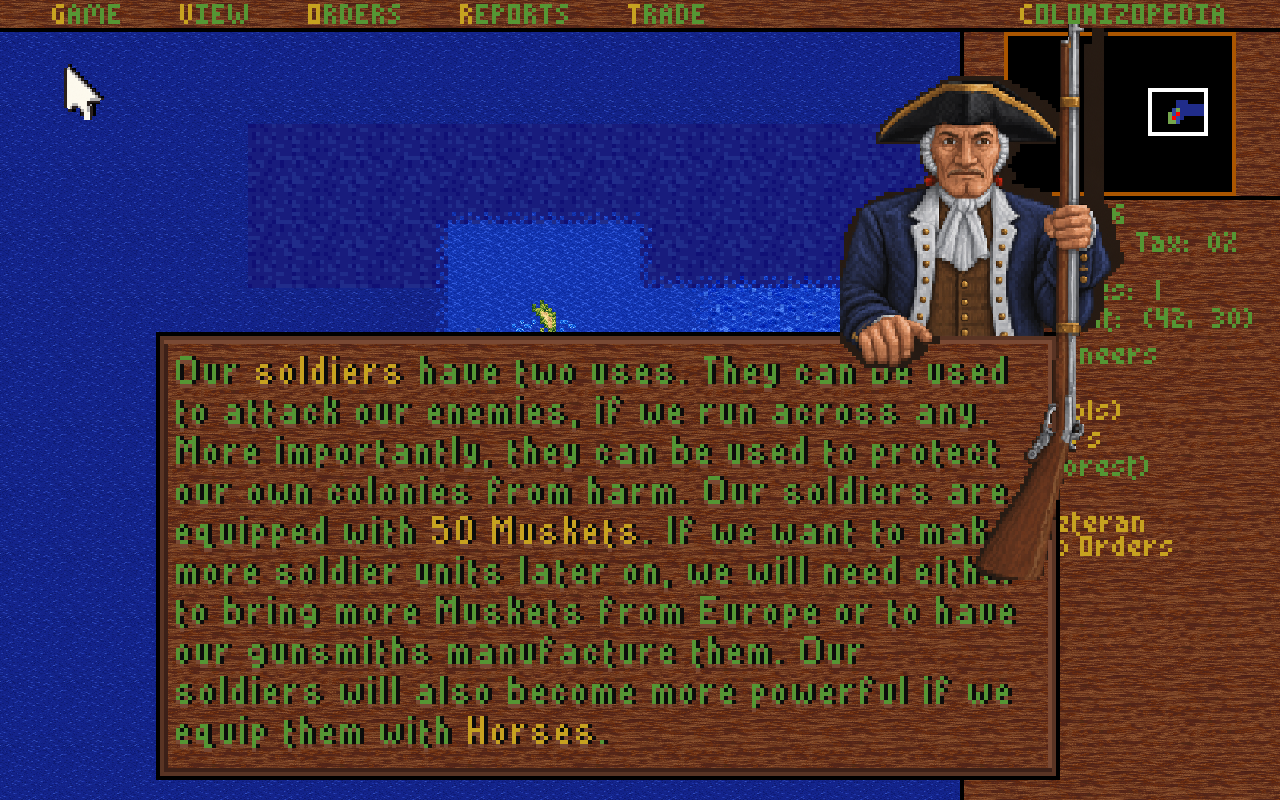
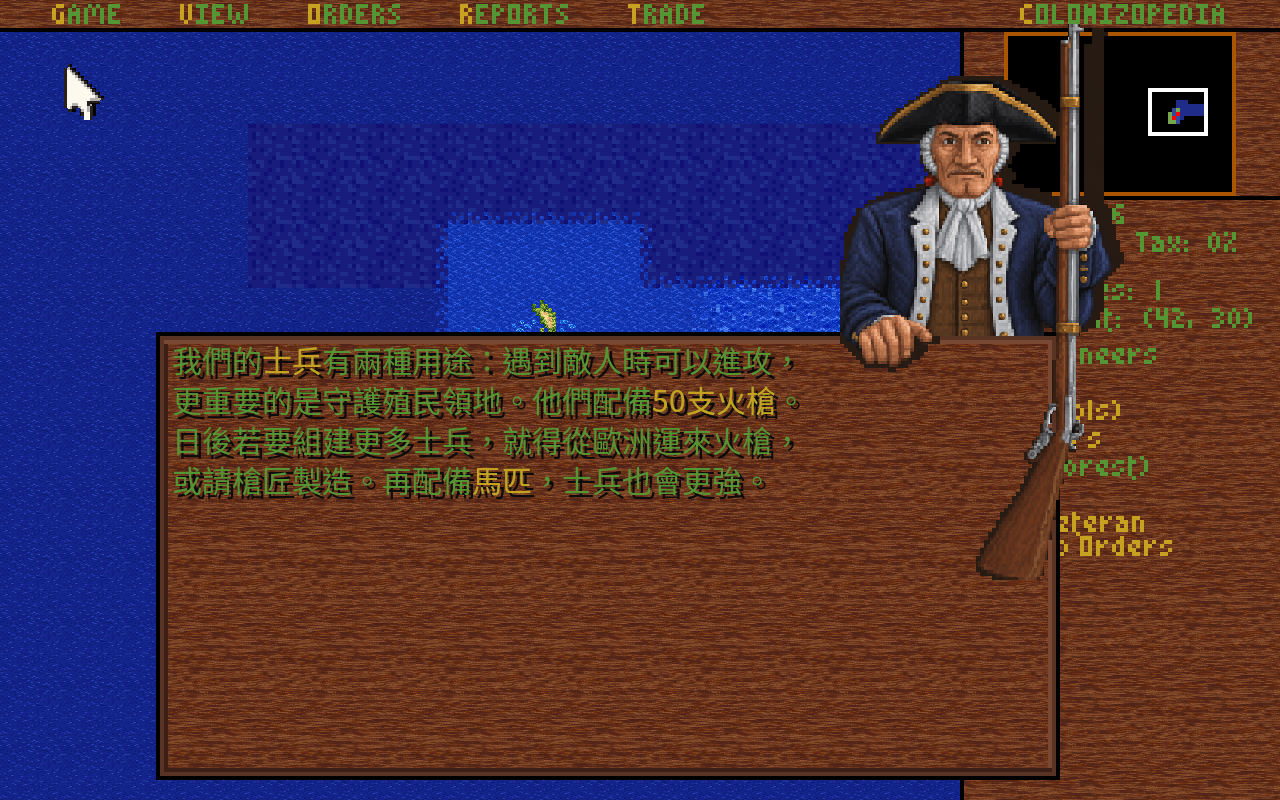
docs: verify four-language soldier tutorial and refresh its screenshot

Changed region(s): [[0.125, 0.4375, 0.8125, 0.9375]]

diff --git a/CONTEXT.md b/CONTEXT.md
@@ -7,10 +7,10 @@
 | 項目 | 目前狀態與證據 |
 |---|---|
 | 本機歷史紀錄 | 舊JSON／JSONL／來源遮罩與Linux驗證程式已無損封存為原路徑加`.gz`及`.gz.meta.json`，清冊中的SHA-256對應原始內容。重用舊驗證目錄前，在Docker內以非root執行[還原工具](tools/evidence_storage.py)的`restore <原始路徑或目錄>`；完整命令與清理收據見[工作紀錄](WORKLOG.md)。文件、發行收據及封裝字型直接依賴的95個檔案維持原路徑。原版、正式HD原圖、存檔、正式交付與目前有效輸出保留。R92另合併896個完全相同的封閉輸出、無損封存12個舊檔，節省1374875648 bytes；R92清理後實占35029135360 bytes，約32.62GiB；R95另無損封存8個舊JSON／JSONL與原型驗證程式，節省579137536 bytes，原始雜湊往返驗證通過；R96另將1105個封閉觀測輸出合併並無損封存8個舊檔，共節省463585280 bytes；當次獨立一般檔實占38632386560 bytes，約35.98GiB，後續開發空間依各輪收尾收據。 |
-| 目前進行 | 現行382張生成原PNG／383檔、941個來源連結，包含既有317個限定CONFORMED及624個DISPLAY-PASS。片尾煙火66幀與勝利煙火46幀正式接線，共178張來源測試畫面顯示。HD事件標題改用金色，三種事件五語15張及原文回退3張畫面通過；字型、字級與位置保持，不增加翻譯覆蓋信用。正式6317097c…通過建置、go vet、完整HD載入、本批112來源fixture顯示及383檔封裝指紋。README維持32張實拍，三張事件已更新為當前金色標題的實際視窗。字形／文字、單色遮罩與其他執行期圖像接續；全量HD、完整五語、影片與新版交付仍未完成。 |
+| 目前進行 | 現行382張生成原PNG／383檔、941個HD來源連結，包含既有317個限定CONFORMED及624個DISPLAY-PASS。R118煙火112幀與金色事件標題、R119三張金色事件實拍保持。R120士兵教學正文四語Noto限定CONFORMED，16張四語正文與2張英文事件實拍，43張完整X11、36個來源反例及當次正常輸入的原版控制組狀態相同。正式aaffdd17…通過建置與go vet；圖像、譯稿與328個語言資源保持。README仍32張，士兵正文改為當次繁中HD實拍。字形／文字、單色遮罩與其他執行期圖像接續；全量HD、完整五語、影片及新版交付仍未完成。 |
 | HD驗收授權 | 2026-10-20使用者明確授權將「正式接線＋測試畫面出現」寫入專案規則。HD單項記為DISPLAY-PASS，沿既有來源與繪圖契約，不追加原版內部調查或逐像素對拍；測試畫面方式如實記錄，全量未覆蓋項及其他功能契約保持。入口[AGENTS.md](AGENTS.md#hd-顯示驗收)及[目標186](docs/goals/186-display-settings-and-gameplay-video.md#全量覆蓋與完成判準)。 |
 | HD事件標題配色 | 2026-10-20使用者指定金色。HD模式字面RGB243／205／99、高光255／240／175、陰影53／28／8；四語Noto及英文原字形與欄位位置保持。三種既有事件的五語15張與原文回退3張來源測試畫面通過，不增加譯文或正常玩家路徑信用。入口[規格069](docs/spec/069-hd-menu-background-and-textures.md)。 |
-| 大型人物HD候選 | MSS0／1／3／4保留原有限定CONFORMED；MSS2／5於R101完成正式接線與來源測試畫面顯示，記為DISPLAY-PASS。士兵正文英文回退限制保持，未新增翻譯信用。入口[規格069](docs/spec/069-hd-menu-background-and-textures.md)。 |
+| 大型人物HD候選 | MSS0／1／3／4保留原有限定CONFORMED；MSS2／5於R101完成正式接線與來源測試畫面顯示，記為DISPLAY-PASS。士兵教學正文於R120完成四語Noto限定驗收，人物圖像信用保持；來源與排版入口[規格060 R120](docs/spec/060-language-bundle-swap.md#2026-10-20-r120-士兵教學正文-ready)。入口[規格069](docs/spec/069-hd-menu-background-and-textures.md)。 |
 | 世界城鎮、聚落與紅旗HD | R96三個縮放入口小圖像限定CONFORMED。305張原PNG／306檔及305個已驗來源連結；45張正常GUI／40個原版點，五語兩模式及四語逐圖游標進出通過。獨立新元件alpha為3：130770、11：74240、118：11559，完整X11為46080000點。56筆當次輸入三側至102200000步，含play=true，CPU／完整RAM／IDX／DAC／WAV／存檔與實拍相同。182具名通過項由178個未改守門／交易成功項加當次4個全載入項組成；完整84來源／83小圖像、14新載入錯件、306檔封裝16拒絕與索引12拒絕通過。舊302張原圖、清冊及來源連結保持。README更新世界地圖，仍為24張原樣實拍。其他40個ICONS、六個PIK、建築47、其他圖像／動畫、完整五語、全量HD、影片及新版交付未完成。 審查d6919b3f43c4f71e847d928bfdcc7f17105eb25740e0a9ac9ad1121116991ed6；索引e52daf53508ce60a41b9a6a3090f951d3ee333c38c8fb16ec94c212c487e7164。 |
 | 森林與魚群Main HD | [規格067 R95](docs/spec/067-hd-world-terrain-batch.md#r95既有六個地形main表面conformed)R95六個既有地形Main表面限定CONFORMED。54張GUI／44原版點、完整RGBA54272000點、X11 55296000點、560個Noto欄位及289751個Main起點alpha通過。六來源各五語／兩模式，繁中逐一游標進出與其他三語代表；正常離頁歸零。68筆當次輸入三側至117800000步，含play=true，完整狀態／WAV／存檔與實拍相同。850具名通過項、54幀載入正例與新增7錯件，未變53幀163錯件明列繼承；303檔封裝25拒絕與索引12拒絕通過。 現行302張原PNG／303檔、302個已驗來源連結，README共24張原樣實拍。接續其餘43個ICONS候選、建築47、六個PIK、其他表面及動畫；完整五語、全量HD、影片與新版交付未完成。 |
 | 山地、丘陵與資源小圖HD | [規格067 R94](docs/spec/067-hd-world-terrain-batch.md#r94其餘三十三個main前景conformed)33個Main前景限定CONFORMED。96張正式GUI／86個獨立原版點，95張完整RGBA共97280000點、96張X11共98304000點、816個Noto欄位、720534個新前景alpha通過。四種代表地形各五語／兩模式及四語代表游標往返；正常離頁歸零。163筆當次輸入三側至278600000步，含play=true，CPU／完整RAM／IDX／DAC／WAV／存檔與實拍相同；原版288檔保持。73Go／56來源綁定、682具名測試零失敗零skip、53幀載入163錯件、303檔封裝106拒絕及索引12拒絕通過。舊269張、清冊與連結保持；未新增Stage／發布回退信用，最後世界HD僅驗繼承材質與X11。審查4475d4ad9685764bc0bb6a10029be909d6c7485f4b4782a520db51e87f9076d8；索引602c54d4c1083da56f88510ab8ba3f4dbcf25ba07b125ad8eda674c90f20a3f6。README共23張原樣實拍。 |

diff --git a/docs/spec/060-language-bundle-swap.md b/docs/spec/060-language-bundle-swap.md
@@ -1068,3 +1068,11 @@ COLONY00.SAV由原版正常寫入，指紋仍為
 本機來源與量測入口位於既有hd-opening-animation-sources-r84工作根的r120-soldier-evidence-r1/gui.soldier-source.json，SHA-256為f918305b821fac28a5679fc739490cfeba674c1313e4c3ba9c1634638c9e33cf。正常輸入與基準狀態見r120-soldier-baseline-r1及規格069 R98的GUI5收據；原版資料維持本機。
 
 R120來源核對補充：印字完成後，正文安全區有427個人物後畫點，其中54個原屬文字墨跡。427點均有完整MSS1來源及原生值證明；native_occluded_pixels只計54個文字點。來源檢查收據為r120-source-overlap-check-r1.json，仍不接受來源以外的改動。
+
+### R120士兵教學正文限定CONFORMED
+
+四語完整正文均以各地區Noto 30px顯示於左側欄，原版與HD兩模式及四語人物游標往返共16張實拍，另2張英文，合計18張事件實拍通過。當次43張實拍的1280乘800遊戲區與X11相同，正常關頁後士兵來源歸零。36個來源、幾何、色盤、VGA及同值未知寫入反例回退；英文單元畫面保持。當次正常輸入的原版控制組與正式GUI之CPU、完整RAM、VGA、DAC及終點相同。
+
+正式aaffdd177b9da1ff1c52f3e34b2f0a34763d58cdcf49ded805a660974c04749e通過建置與go vet，程式提交4fefd3acd8446c0cf18eb771c3765f41b3102cfb。沿用328個語言資源與既有譯稿，沒有新字模或資料格式。HD圖像來源與既有原圖不變。
+
+收據入口為既有hd-opening-animation-sources-r84工作根的r120-display-close-final.json、r120-soldier-gui-final-check-r1.json、r120-soldier-unit-display-r4/check.json及r120-soldier-control-r1/check.json。此限定驗收只補士兵教學欄位；缺少可驗的完整人物來源時仍回原文，未將其他情境、完整五語或全量HD標為完成。

diff --git a/README.md b/README.md
@@ -198,9 +198,9 @@ HD事件標題使用金色字面、亮金高光與深色陰影，保留各語言
 
 ![士兵用途教學的 HD 人物與火槍](docs/screenshots/hd-soldier-guide.png)
 
-![繁體中文印地安人顧問頁與 HD 頭像、河岸背景](docs/screenshots/hd-indian-adviser-zh.png)
+士兵教學：四語正文使用各地區 Noto，排在人物左側。人物、衣帽、雙手與火槍使用 HD。
 
-士兵教學：人物、衣帽、雙手與火槍已重繪。這段正文目前保留原版英文；本次驗收只涵蓋圖像、來源與游標，四語正文另待處理。
+![繁體中文印地安人顧問頁與 HD 頭像、河岸背景](docs/screenshots/hd-indian-adviser-zh.png)
 
 ## 開發與研究入口
 
